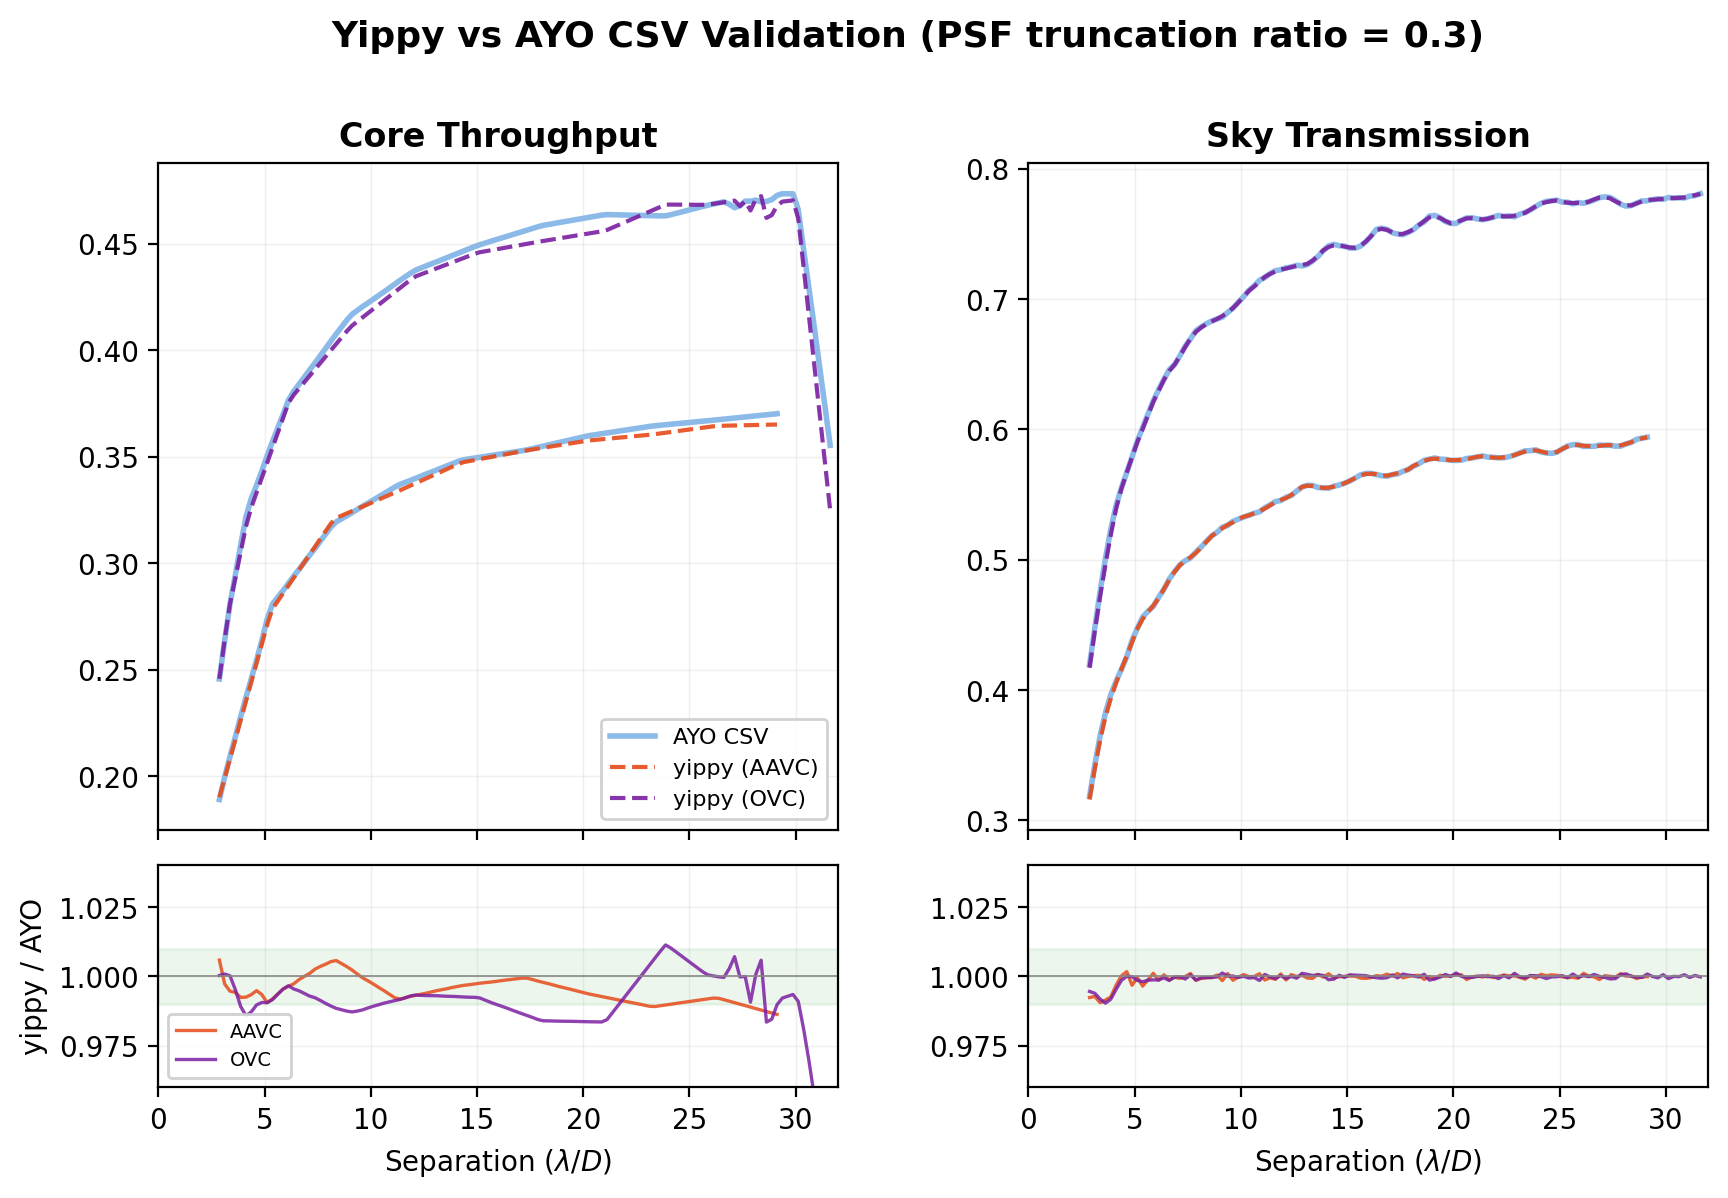
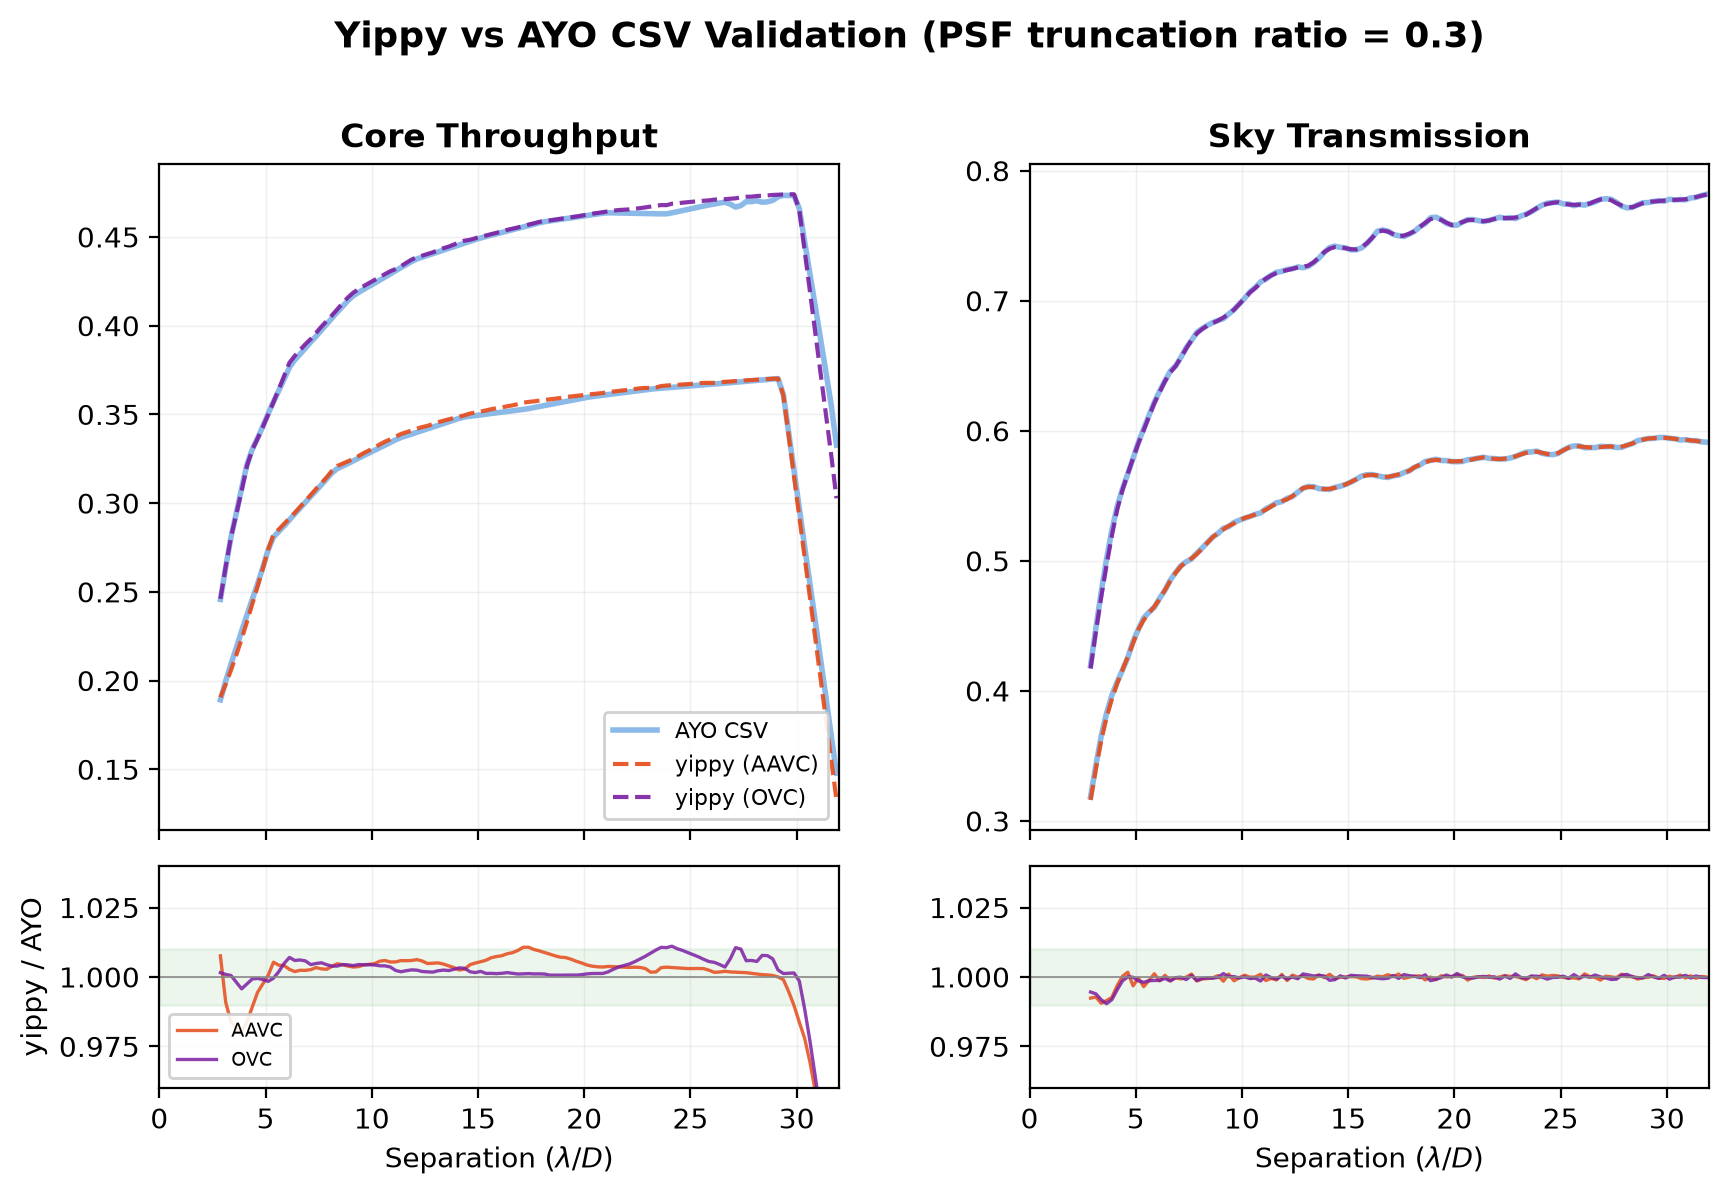
docs: move notebooks and benchmarks to the subpixel truncation core

diff --git a/docs/azimuthal_averaging.md b/docs/azimuthal_averaging.md
@@ -99,14 +99,12 @@ position angles as the image has pixels on a side, with Keys cubic
 interpolation, and the samples that fall inside the image are averaged. The
 value at each radius is therefore the mean intensity at that radius.
 
-An earlier version averaged the pixels whose centers fall in each of
-`floor(max(image_shape) / 2)` annular bins (about 1.4 pixels wide) and
-labeled each bin with its central radius. Against the exact azimuthal mean
-of a well-sampled map, that profile was off by 1 to 3 percent typically and
-by up to 15 percent near the sharp minima of a vortex coronagraph's leakage
-profile, because a bin mixes a range of radii wherever the profile is curved
-on the scale of the bin. The circle-sampled profile agrees with the exact
-mean to a few tenths of a percent except within the deepest nulls.
+Averaging the pixels whose centers fall in an annulus instead mixes a range of
+radii wherever the profile is curved on the scale of the annulus: with
+annuli about 1.4 pixels wide that is off by 1 to 3 percent typically, and by
+up to 15 percent near the sharp minima of a vortex coronagraph's leakage
+profile. The circle-sampled profile agrees with the exact mean to a few
+tenths of a percent except within the deepest nulls.
 
 At a stellar diameter between the tabulated ones, the profile is taken from
 the stellar intensity map interpolated to that diameter (`stellar_intens`),

diff --git a/docs/benchmarking.md b/docs/benchmarking.md
@@ -8,10 +8,18 @@ with PSF truncation ratio 0.3.
 
 | Metric | AAVC mean (max err) | OVC mean (max err) |
 |---|---|---|
-| Core throughput | 0.9948 (1.4%) | 0.9907 (8.6%) |
+| Core throughput | 0.9991 (10.3%) | 1.0002 (9.0%) |
 | Sky transmission | 0.9994 (0.9%) | 0.9995 (1.0%) |
 | Raw contrast | 1.0000 (< 0.1%) | 1.0000 (< 0.1%) |
 | Noise floor | 1.0000 (< 0.1%) | 1.0000 (< 0.1%) |
+
+The core-throughput extremes lie within 3 $\lambda/D$ of the image edge
+(30 to 32 $\lambda/D$), where the core is cut off by the image border and
+yippy's curve falls up to 10% below AYO's. Out to 29 $\lambda/D$ the core
+throughput agrees to 2.0% (AAVC) and 1.1% (OVC), with means of 1.0031 and
+1.0036; the largest difference is near the inner working angle, where yippy
+measures the core of the PSF synthesized at each separation and AYO
+interpolates linearly between the tabulated offsets.
 
 Raw contrast and noise floor match exactly because both AYO and yippy
 clamp values at the contrast floor ($10^{-10}$), which dominates across
